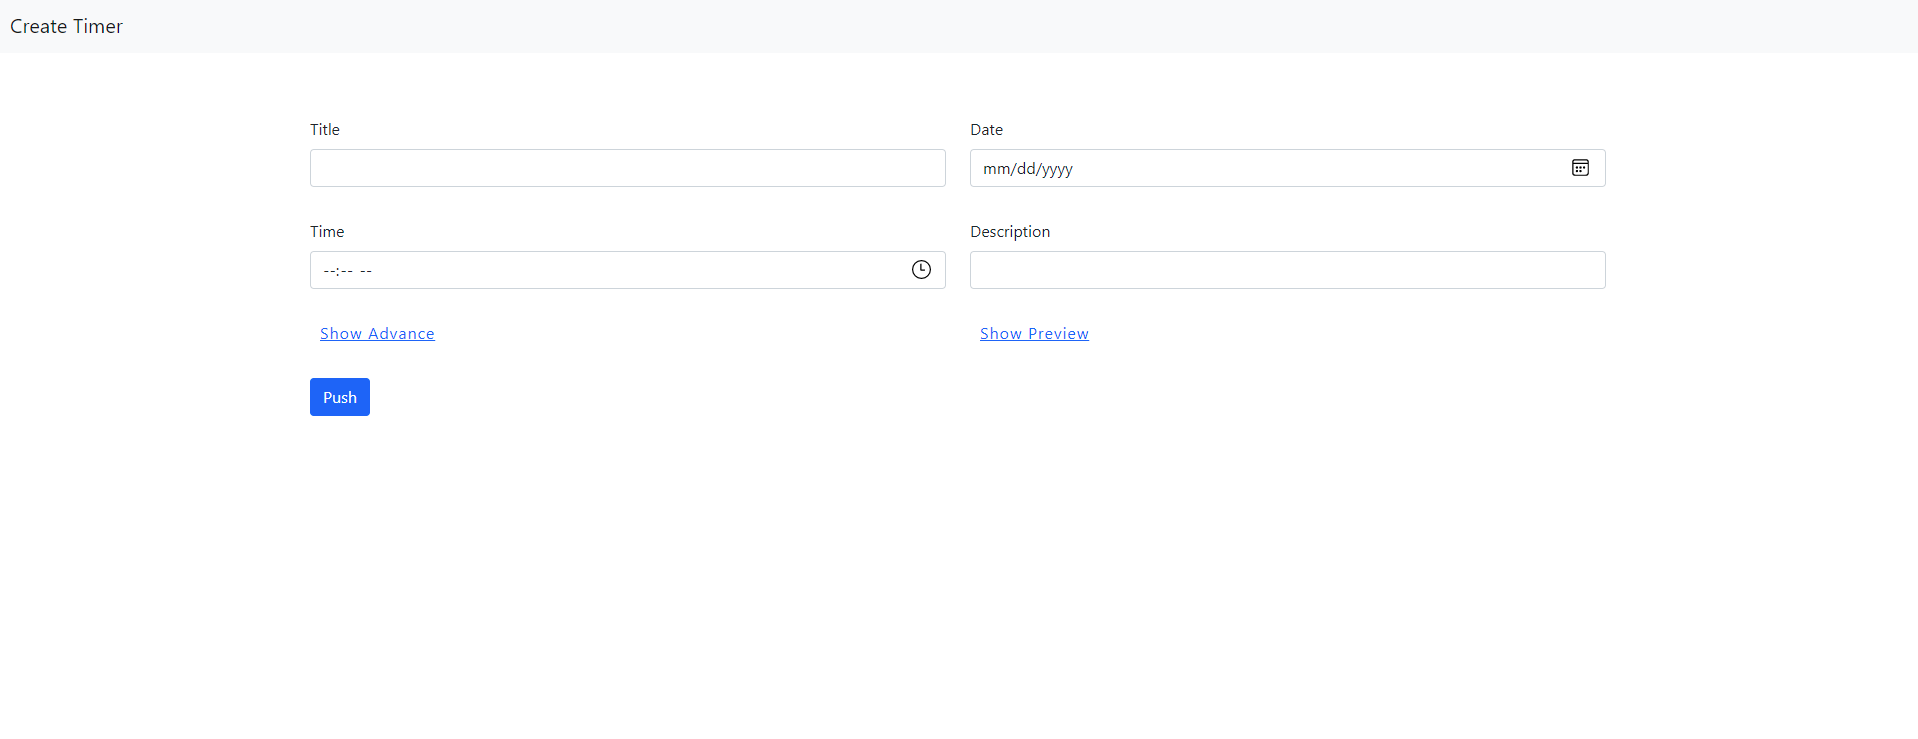
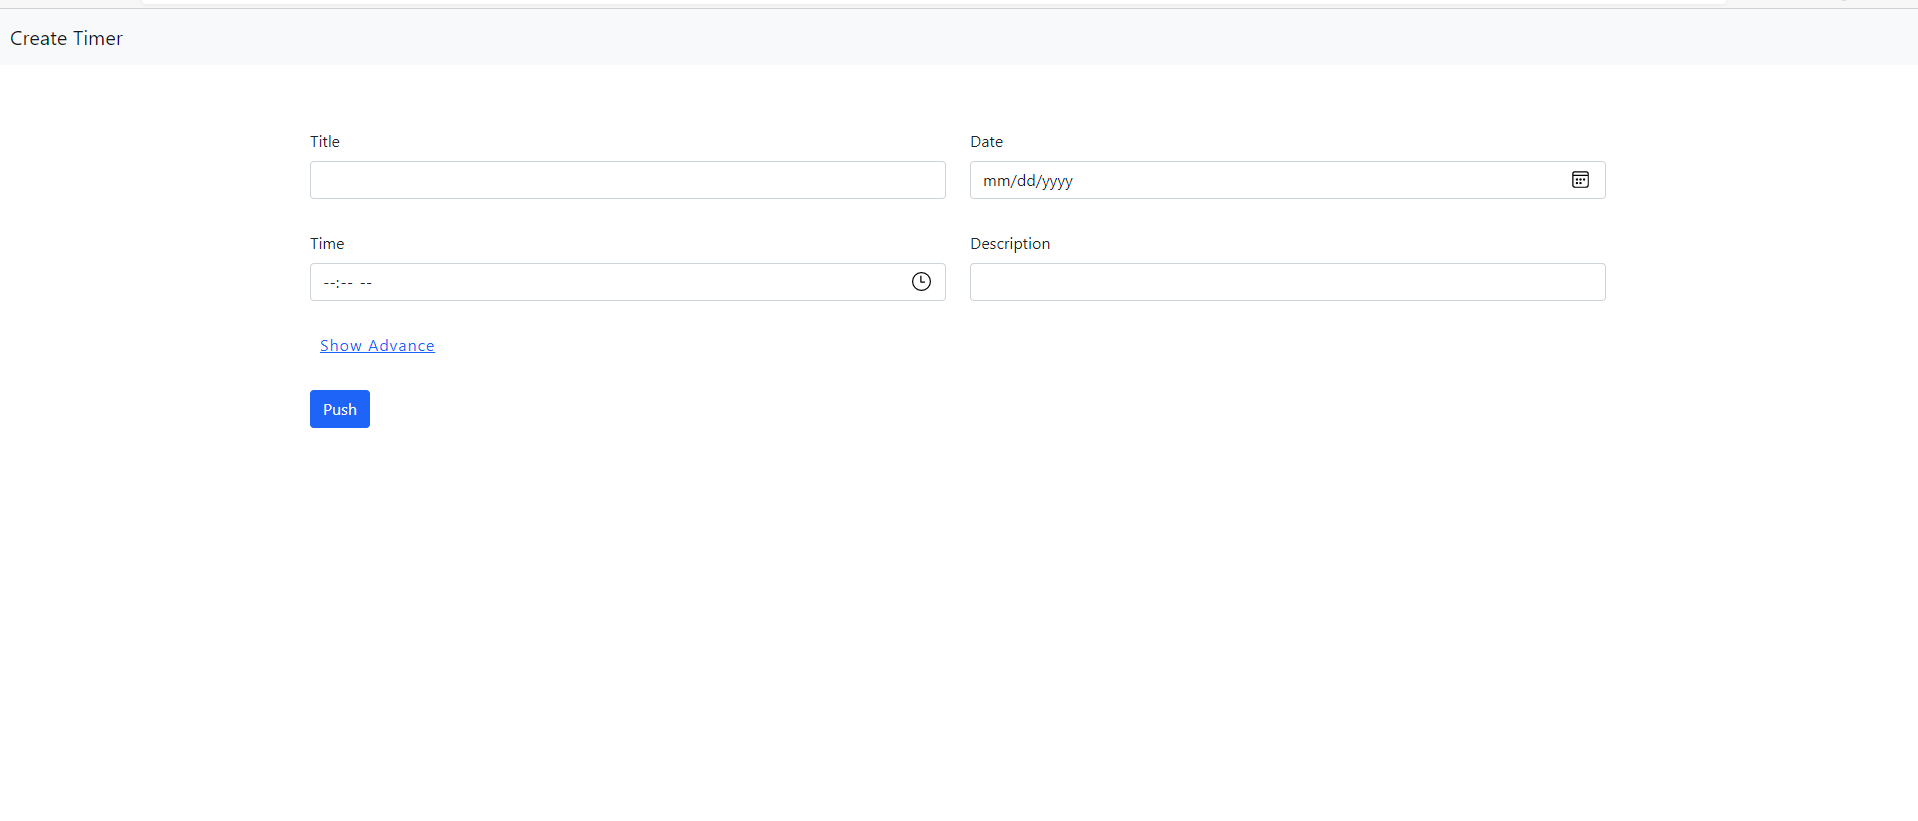
Add files via upload

diff --git a/index.html b/index.html
@@ -1,5 +1,6 @@
 <!DOCTYPE html>
 <html lang="en">
+
 <head>
   <meta charset="UTF-8" />
   <meta name="google" content="notranslate" />
@@ -21,16 +22,17 @@
   <script src="https://cdnjs.cloudflare.com/ajax/libs/validator/13.6.0/validator.min.js"></script>
   <script src="https://cdn.jsdelivr.net/npm/ipfs-http-client/dist/index.min.js"></script>
   <script src="https://cdnjs.cloudflare.com/ajax/libs/clipboard.js/2.0.8/clipboard.min.js"></script>
-  <link rel="stylesheet" href="./css/style.css">
+  <link rel="stylesheet" href="./css/style.css" />
   <title>Create | Time</title>
 </head>
+
 <body>
   <nav class="navbar navbar-expand-lg navbar-light bg-light">
     <div class="container-fluid">
       <a class="navbar-brand" href="#">Create Timer</a>
     </div>
   </nav>
-<!-- Main container -->
+  <!-- Main container -->
   <div class="container mt-5">
     <!-- Alert Message -->
     <div id="alertMe"></div>
@@ -69,52 +71,75 @@
       <!-- show Advance -->
       <div class="col-sm-6 col mt-3">
         <div class="mb-3">
-          <label id="showAdvance" class="form-label text-primary"
-            style="cursor: pointer;text-decoration: underline; letter-spacing: 1px; line-height: 1.5px; padding: 5px 10px;">Show
-            Advance</label>
+          <label id="showAdvance" class="form-label text-primary" style="
+                cursor: pointer;
+                text-decoration: underline;
+                letter-spacing: 1px;
+                line-height: 1.5px;
+                padding: 5px 10px;
+              ">Show Advance</label>
         </div>
       </div>
       <!-- show Preview -->
-      <div class="col-sm-6 col mt-3">
+      <div class="col-sm-6 col mt-3 hides" style="display: none">
         <div class="mb-3">
-          <label id="showPreview" class="form-label text-primary"
-            style="cursor: pointer;text-decoration: underline; letter-spacing: 1px; line-height: 1.5px; padding: 5px 10px;">Show
-            Preview</label>
-            <div id="myModal" class="modal">
-              <span class="close">&times;</span>
-              <img class="modal-content" id="img01">
-              <div id="caption"></div>
-            </div>
+          <label id="showPreview" class="form-label text-primary" style="
+                cursor: pointer;
+                text-decoration: underline;
+                letter-spacing: 1px;
+                line-height: 1.5px;
+                padding: 5px 10px;
+              ">Show Preview</label>
+          <div id="myModal" class="modal">
+            <span class="close">&times;</span>
+            <img class="modal-content" id="img01" />
+            <div id="caption"></div>
+          </div>
         </div>
       </div>
-      <div class="hides py-2" style="display: none;">
+      <div class="hides py-2" style="display: none">
         <div class="row">
           <!-- preset color -->
           <div class="col-sm-6 mt-3">
-              <div class="box d-flex justify-content-between">
-                <label for="background" class="form-label">Pre Set Color</label>
+            <div class="box d-flex justify-content-between">
+              <label for="background" class="form-label">Pre Set Color</label>
               <div class="swap">
                 <div class="form-check">
-                  <input class="form-check-input" type="checkbox" value="" id="flexCheckChecked" >
+                  <input class="form-check-input" type="checkbox" value="" id="flexCheckChecked" />
                   <label class="form-check-label" for="flexCheckChecked">
                     Swap Color
                   </label>
                 </div>
               </div>
-              </div>
-              <select class="form-select" aria-label="Default select example" id="selectValueColor" >
-                <option selected value="Default">Default</option>
-                <option value="RedBlack">Red & Black</option>
-                <option value="BlackWhite">Black & White</option>
-                <option value="BlackOrange">Black & Orange</option>
-                <option value="VioletBlooming">Violet & Blooming</option>
-                <option value="BlueMint">Blue & Mint</option>
-                <option value="GrayLimePunch">Gray & Lime Punch</option>
-                <option value="BlackBlazingYellow">Black & Blazing Yellow</option>
-                <option value="BlackCherryTomato">Black & Cherry Tomato</option>
-                <option value="PinkCharcoal">Pink & Charcoal</option>
-              </select>
-              
+            </div>
+            <select class="form-select" aria-label="Default select example" id="selectValueColor">
+              <option selected value="Default">Default</option>
+              <option value="RedBlack">Red & Black</option>
+              <option value="BlackWhite">Black & White</option>
+              <option value="BlackOrange">Black & Orange</option>
+              <option value="VioletBlooming">Violet & Blooming</option>
+              <option value="BlueMint">Blue & Mint</option>
+              <option value="GrayLimePunch">Gray & Lime Punch</option>
+              <option value="BlackBlazingYellow">
+                Black & Blazing Yellow
+              </option>
+              <option value="BlackCherryTomato">Black & Cherry Tomato</option>
+              <option value="PinkCharcoal">Pink & Charcoal</option>
+              <option value="MangoTerrarium">Mango & Terrarium</option>
+              <option value="CherryWhite">Cherry & White</option>
+              <option value="GreenPurple">Green & Purple</option>
+              <option value="PinkNavyBlue">Pink & Navy Blue</option>
+              <option value="SweetCornToffee">Sweet Corn & Toffee</option>
+              <option value="AspenGoldPrincessBlue">
+                Aspen Gold & Princess Blue
+              </option>
+              <option value="SoybeanEclipse">Soybean & Eclipse</option>
+              <option value="RosePinkPurple">Rose Pink & Purple</option>
+              <option value="MellowYellowVerdantGreen">
+                Mellow Yellow & Verdant Green
+              </option>
+              <option value="DarkBlueRed">Dark Blue & Red</option>
+            </select>
           </div>
 
           <!-- background -->
@@ -187,7 +212,9 @@
             <div class="mb-3">
               <label for="pastText" class="form-label">Past Timer Text</label>
               <input type="text" class="form-control" id="pastText" />
-              <div id="emailHelp" class="form-text">Text showing after timer completion.</div>
+              <div id="emailHelp" class="form-text">
+                Text showing after timer completion.
+              </div>
             </div>
           </div>
           <!-- Future text -->
@@ -195,7 +222,9 @@
             <div class="mb-3">
               <label for="futureText" class="form-label">Pre Timer Text</label>
               <input type="text" class="form-control" id="futureText" />
-              <div id="emailHelp" class="form-text">Text showing until timer completion.</div>
+              <div id="emailHelp" class="form-text">
+                Text showing until timer completion.
+              </div>
             </div>
           </div>
           <!-- File name -->
@@ -203,7 +232,9 @@
             <div class="mb-3">
               <label for="fileName" class="form-label">File Name</label>
               <input type="text" class="form-control" id="fileName" />
-              <div id="emailHelp" class="form-text">You can change file name.</div>
+              <div id="emailHelp" class="form-text">
+                You can change file name.
+              </div>
             </div>
           </div>
         </div>
@@ -211,13 +242,10 @@
     </div>
 
     <div class="col-sm-1 mt-3">
-      <button type="button" id="pushBtn" class="btn btn-primary">
-        Push
-      </button>
+      <button type="button" id="pushBtn" class="btn btn-primary">Push</button>
     </div>
 
     <div class="showDemo mt-5 mb-4 subMain"></div>
-  </div>
   </div>
 
   <script src="./js/app.js"></script>

diff --git a/js/app.js b/js/app.js
@@ -2,16 +2,17 @@
   "use strict";
   let colorName = "Default",
     tempText = "",
-    tempFileName = "";
+    tempFileName = "",
+    tempInfoLink = null;
 
   document.getElementById("pushBtn").addEventListener("click", () => {
     const {
       descriptionContent = "",
-      date,
-      subContent,
-      tabTitle,
-      mainContent,
-      uiPart,
+        date,
+        subContent,
+        tabTitle,
+        mainContent,
+        uiPart,
     } = getInfo();
 
     const file = contentFile(
@@ -29,6 +30,7 @@
     clearUs();
     $(".main,#pushBtn").fadeOut();
     $(".subMain").fadeIn();
+    tempInfoLink = null;
   });
 
   document
@@ -36,10 +38,10 @@
     .addEventListener("click", hideOrUnhide);
 
   function hideOrUnhide() {
-    $(".hides").is(":visible")
-      ? ($("#showAdvance").text("Show Advance"),
-        $(".hides").css("display", "none"))
-      : ($("#showAdvance").text("Show Less"),
+    $(".hides").is(":visible") ?
+      ($("#showAdvance").text("Show Advance"),
+        $(".hides").css("display", "none")) :
+      ($("#showAdvance").text("Show Less"),
         $(".hides").css("display", "block"));
   }
 
@@ -117,11 +119,54 @@
         color: "#EC7E74",
         bg: "#686664",
       },
+      mangoterrarium: {
+        color: "#E1B976",
+        bg: "#8D8E7C",
+      },
+      cherrywhite: {
+        color: "#B44A56",
+        bg: "#F9F5F4",
+      },
+      greenpurple: {
+        color: "#D6D9AE",
+        bg: "#9C82AB",
+      },
+      pinknavyblue: {
+        color: "#F7EEF0",
+        bg: "#6D749E",
+      },
+      sweetcorntoffee: {
+        color: "#F3EFDF",
+        bg: "#9B8271",
+      },
+      aspengoldprincessblue: {
+        color: "#FBDF8FF",
+        bg: "#4A83B7",
+      },
+      soybeaneclipse: {
+        color: "#E0D1B8",
+        bg: "#6E6C7C",
+      },
+      rosepinkpurple: {
+        color: "#E690A9",
+        bg: "#745483",
+      },
+      mellowyellowverdantgreen: {
+        color: "#FBEBA0",
+        bg: "#688B69",
+      },
+      darkbluered: {
+        color: "#4962B6",
+        bg: "#E64F49",
+      },
     };
 
     for (const property in colorInfo) {
       if (property === value) {
-        let { bg, color } = colorInfo[property];
+        let {
+          bg,
+          color
+        } = colorInfo[property];
         if (swap) invertColorChanger(bg, color);
         else colorChanger(bg, color);
       }
@@ -188,6 +233,8 @@
     $("#textColor").val("#000000");
     $("#boxTextColor").val("#000000");
     $("#numberColor").val("#000000");
+    $("#selectValueColor").val("Default").change();
+    $("#flexCheckChecked").prop("checked", false);
     return;
   }
 
@@ -310,15 +357,15 @@
 
   function getOrdinal(day) {
     var a = day % 10;
-    return 1 == ~~((day % 100) / 10)
-      ? "th"
-      : 1 === a
-      ? "st"
-      : 2 === a
-      ? "nd"
-      : 3 === a
-      ? "rd"
-      : "th";
+    return 1 == ~~((day % 100) / 10) ?
+      "th" :
+      1 === a ?
+      "st" :
+      2 === a ?
+      "nd" :
+      3 === a ?
+      "rd" :
+      "th";
   }
 
   function download(filename, text) {
@@ -377,14 +424,28 @@
     $("input[type='radio'][name='inlineRadioOptions']").click(function () {
       const value = $(this).val();
       if (value === "file") download(tempFileName, tempText);
-      if (value === "link")
+      if (value === "link" && tempInfoLink === null) {
+        const spinners = document.createElement("div");
+        spinners.innerHTML = `
+        <div class="spinner-border text-primary" role="status">
+          <span class="visually-hidden">Loading...</span>
+        </div>
+        `;
+        $("#pasteHere").append(spinners);
         link(tempFileName, tempText)
           .then((res) => {
-            const { url } = res;
+            $("#pasteHere").empty();
+            const {
+              url
+            } = res;
+            tempInfoLink = url;
             const div = document.createElement("div");
             div.innerHTML = `
-            <input id="foo" value="${url}">
-            <button class="btn btn-primary" data-clipboard-action="copy" data-clipboard-target="#foo">copy</button>
+            <div class="form-text">
+              These file to Distributed Web.If you once upload you can' delete it
+            </div>
+            <input id="foo" value="${url}" size="34">
+            <button class="btn btn-primary" data-clipboard-action="copy" data-clipboard-target="#foo"><i class="fas fa-copy"></i></button>
             `;
             document.getElementById("pasteHere").appendChild(div);
             var clipboard = new ClipboardJS(".btn");
@@ -401,6 +462,7 @@
           .catch((error) => {
             alert("danger", error);
           });
+      }
     });
   }
 
@@ -410,8 +472,13 @@
       port: 5001,
       protocol: "https",
     });
-    const { path } = await ipfs.add(text);
-    return { url: `https://ipfs.io/ipfs/${path}`, fileName };
+    const {
+      path
+    } = await ipfs.add(text);
+    return {
+      url: `https://ipfs.io/ipfs/${path}`,
+      fileName,
+    };
   }
 
   function contentFile(

diff --git a/ReadMe.md b/ReadMe.md
@@ -2,14 +2,14 @@
 
 ### <a href="https://avinashboy.github.io/create-timer/">Live Demo</a>
 
-### *Note*: It will collect some information from you. After pressing the push button it will generate a new file. Now you can customise timer.
+### _Note_: It will collect some information from you. After pressing the push button it will generate a new file. Now you can customize timer or Share your file with others.
 
 ## Screenshots:
 
-_This is creator page_
+_Create Your Own Time_
 
 ![view page](./Screenshot/info.png)
 
-_More options_
+_More Options_
 
 ![view page](./Screenshot/options.png)
